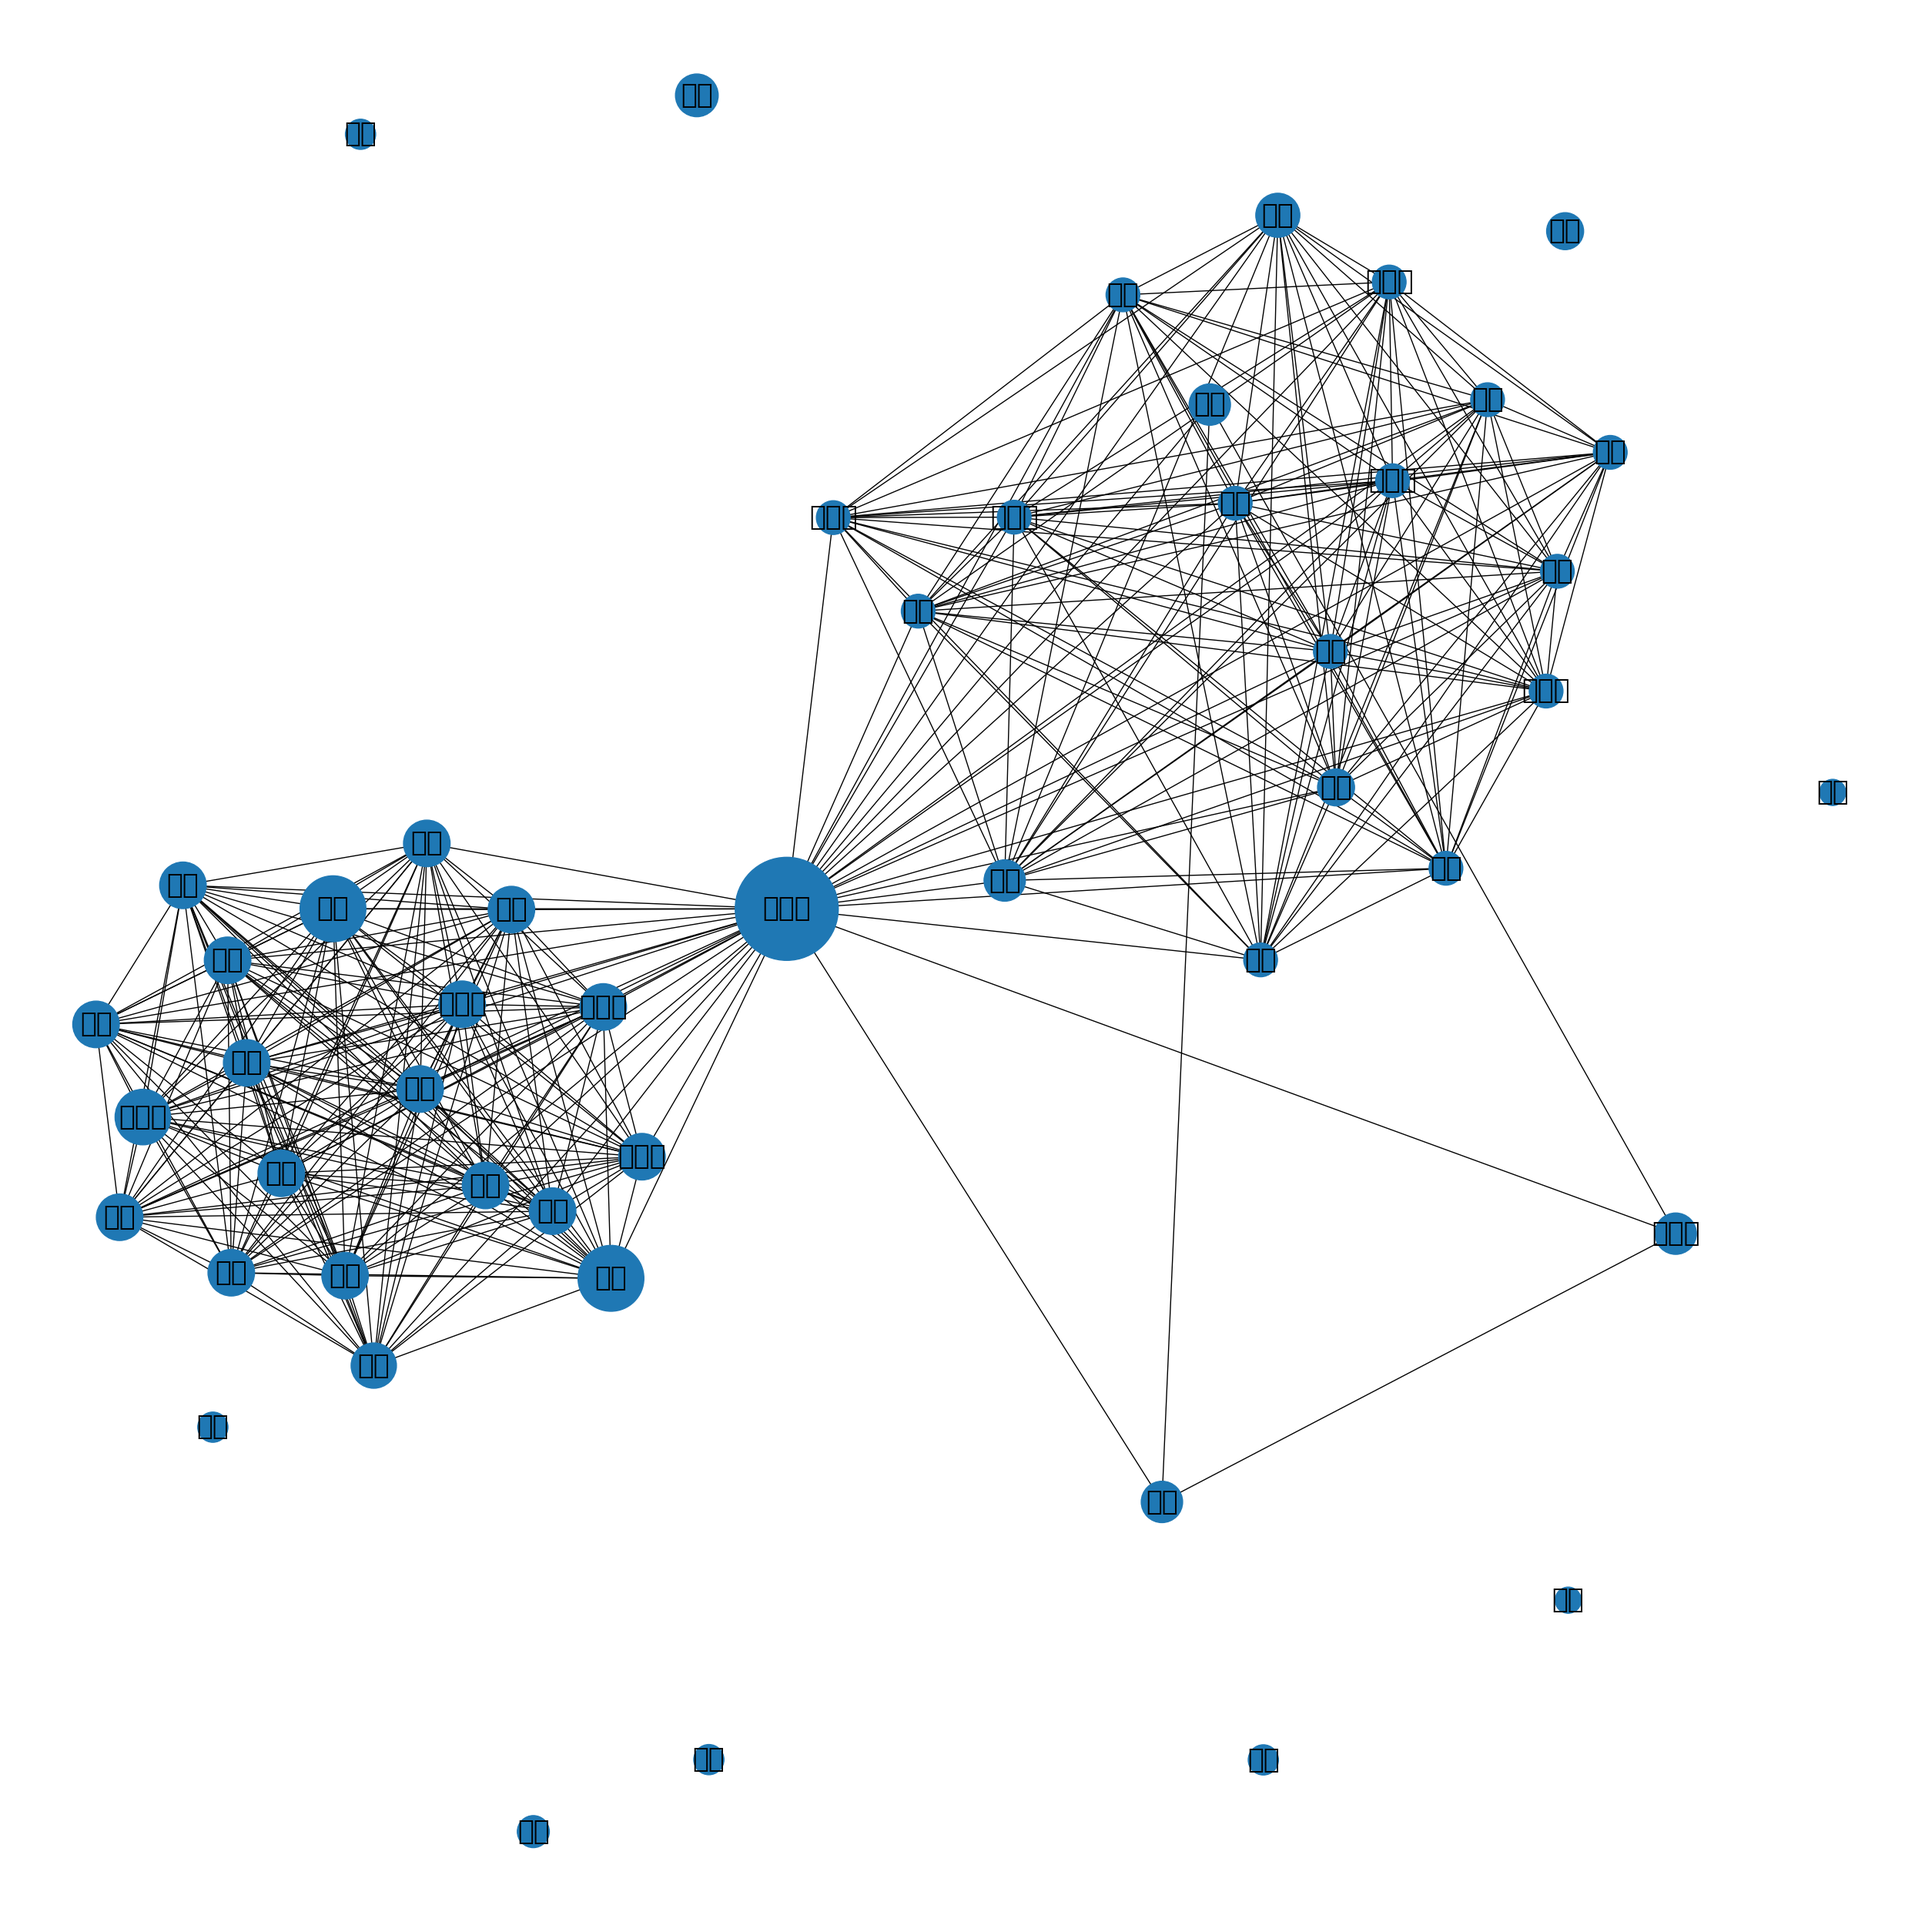
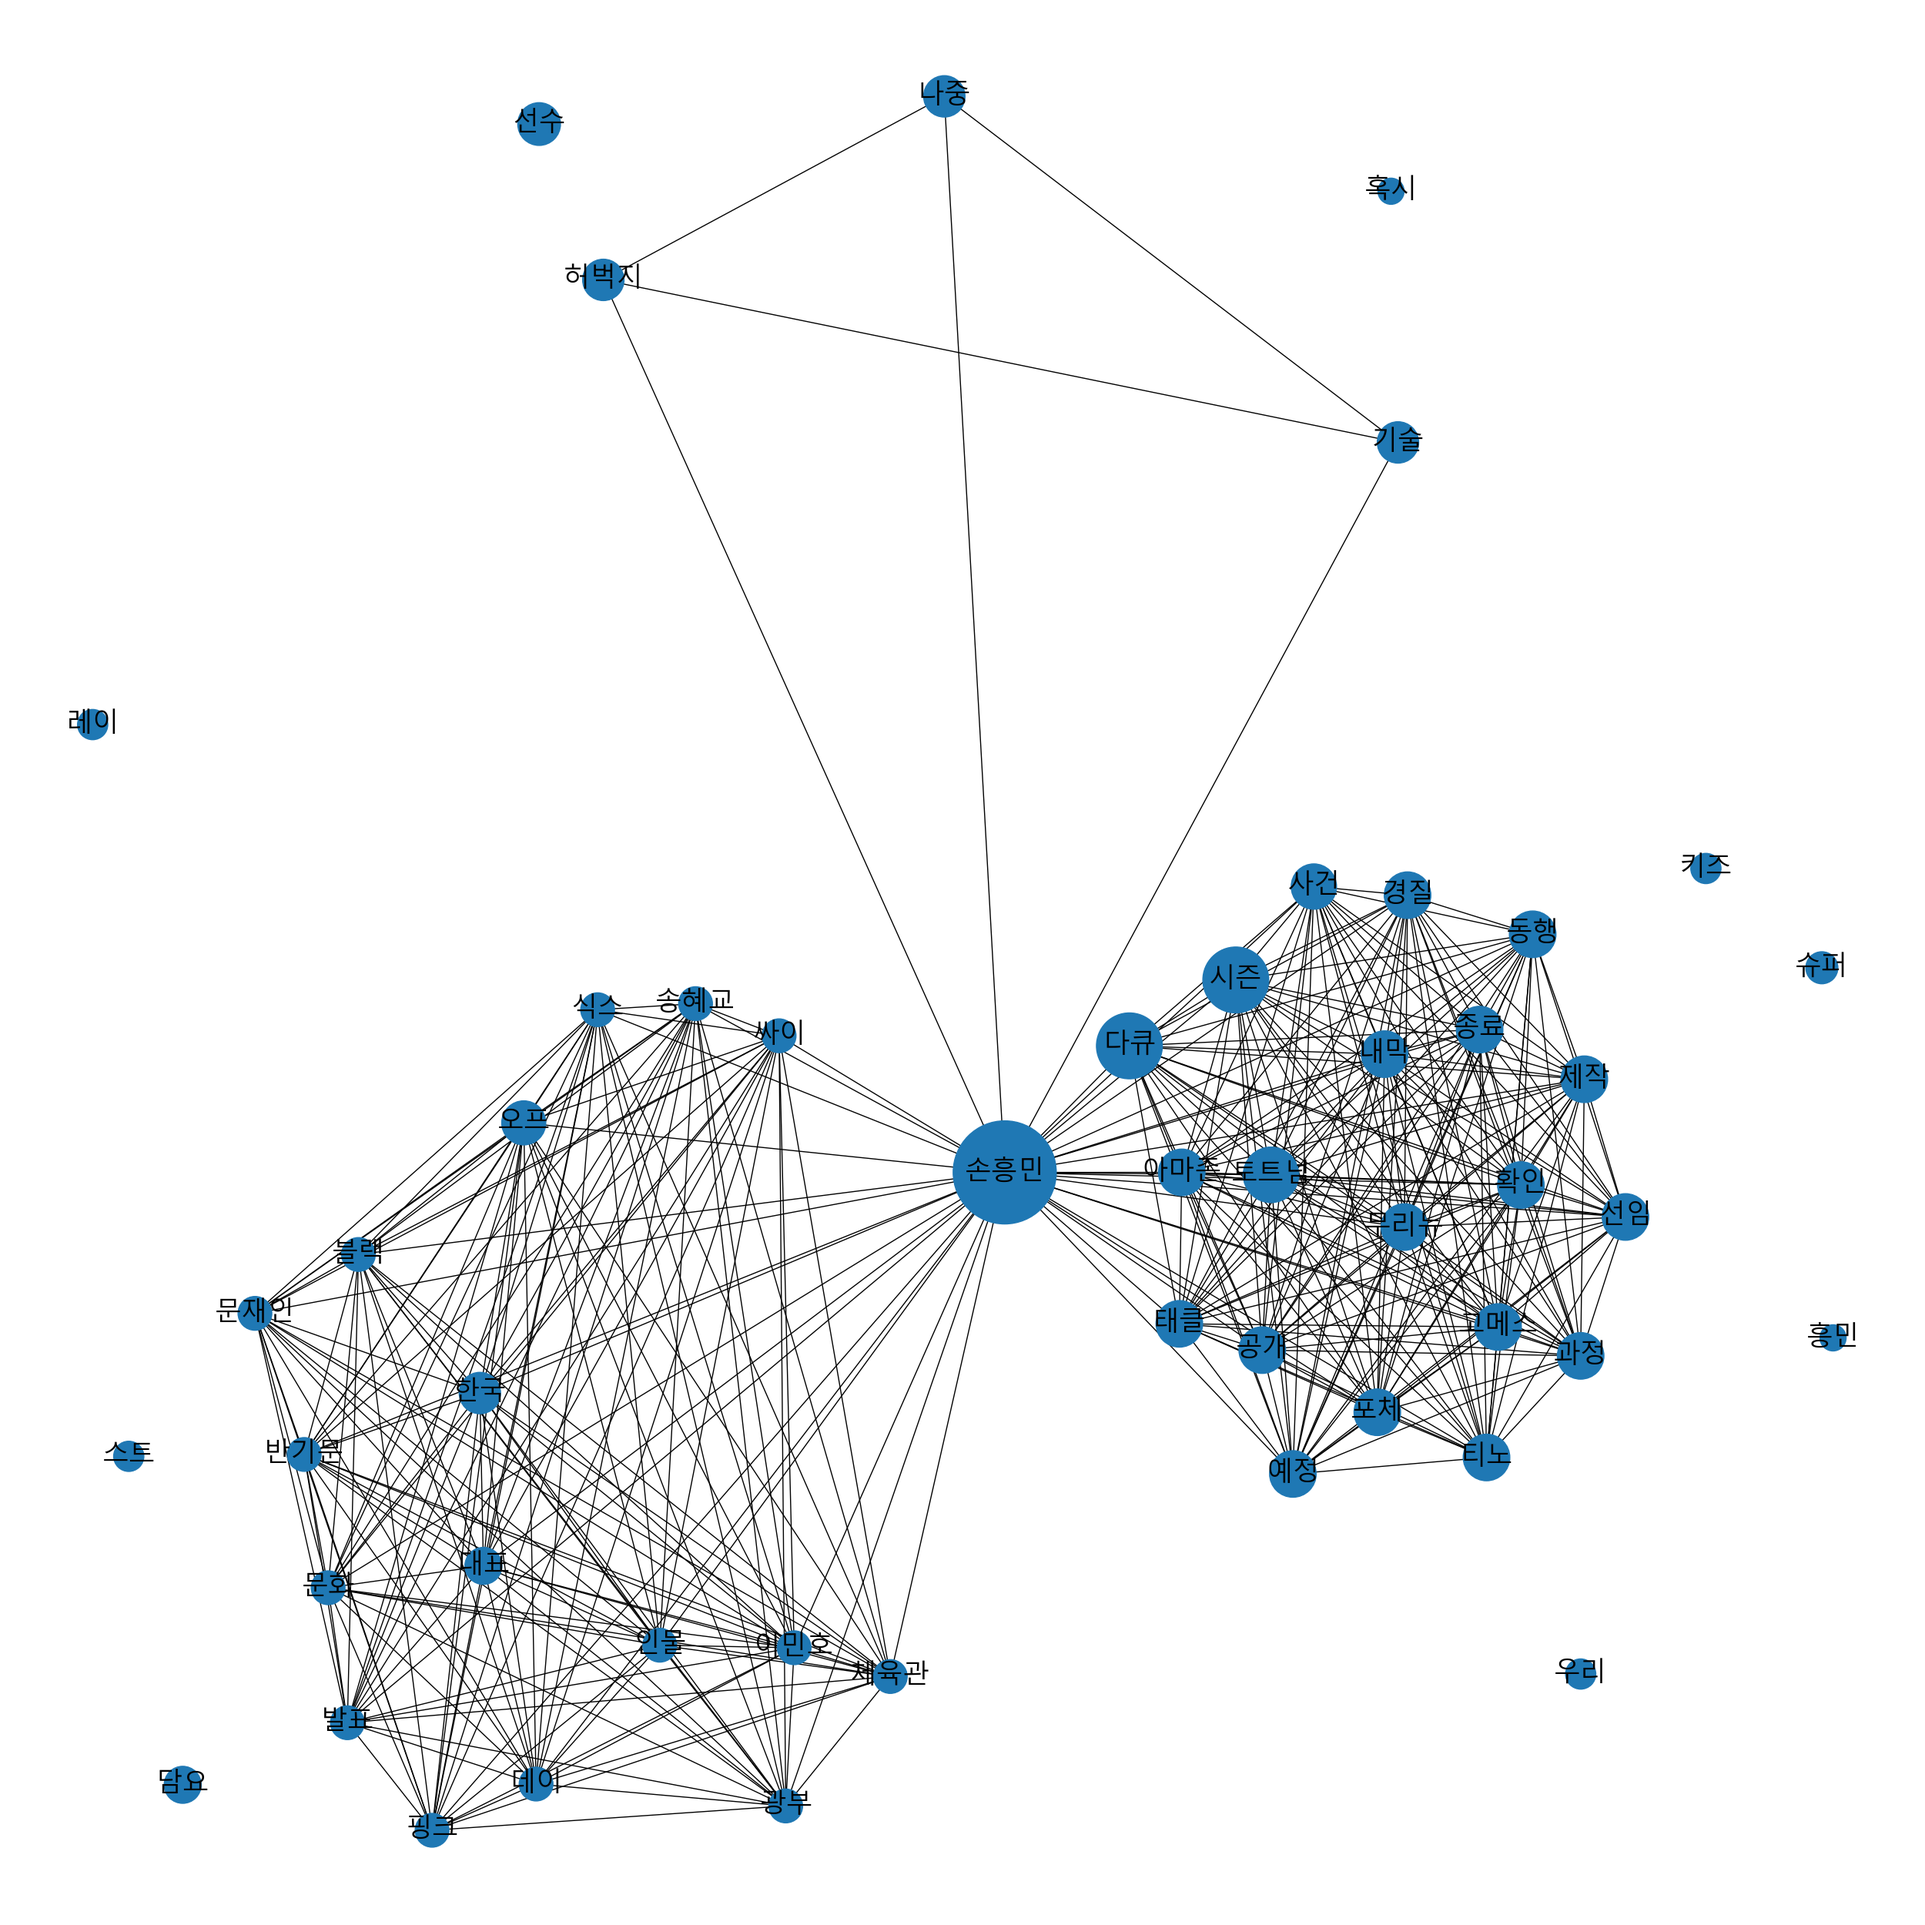
demo: demo tested

diff --git a/Association_Analyzer/association_analyzer.py b/Association_Analyzer/association_analyzer.py
@@ -58,15 +58,16 @@ class Association_Analyzer:
 
 
         # 그래프 디자인과 관련된 파라미터를 설정합니다.
-        pos = nx.shell_layout(G)
+        pos = nx.spring_layout(G, k=0.6, iterations=50)
         sizes = [G.nodes[node]['nodesize']*10 for node in G]
-        nx.draw_shell(G, pos=pos, node_size=sizes)
+        nx.draw(G, pos=pos, node_size=sizes)
 
+        # Windows 사용자는 AppleGothic 대신,'Malgun Gothic'. 그 외 OS는 OS에서 한글을 지원하는 기본 폰트를 입력합니다.
         # font_path="./Fonts/NanumGothic.ttf"
         # gothic_Font=fm.FontProperties(fname=font_path).get_name()
         # matplotlib.rc('font',family=gothic_Font)
         # print(matplotlib.rcParams)
-        nx.draw_networkx_labels(G, pos=pos, font_family='Malgun Gothic', font_size=25)
+        nx.draw_networkx_labels(G, pos=pos, font_family='Malgun Gothic',size=(1000,1000), font_size=25)
 
         # 그래프를 출력합니다.
         ax = plt.gca()
